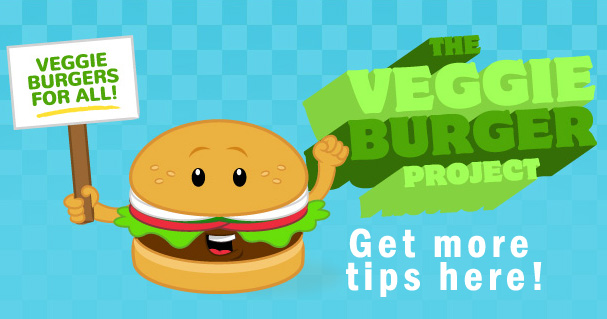
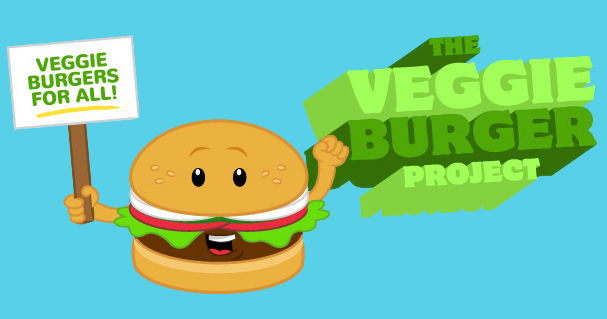
adding basic styles for layout

diff --git a/public/assets/css/burger_style.css b/public/assets/css/burger_style.css
@@ -1,7 +1,16 @@
+body {
+  background: #58d0e8;
+}
+.container div div {
+  text-align: center;
+}
+ul {
+  list-style-type: none;
+}
 li {
   padding: 5px;
   margin: 5px;
-  background: #faebd7;
+  /*background: #faebd7;*/
 }
 
 .label {
@@ -11,7 +20,7 @@ li {
 .create-update-form {
   padding: 5px;
   margin: 5px;
-  background: aqua;
+  background: red;
 }
 
 .form-group {
